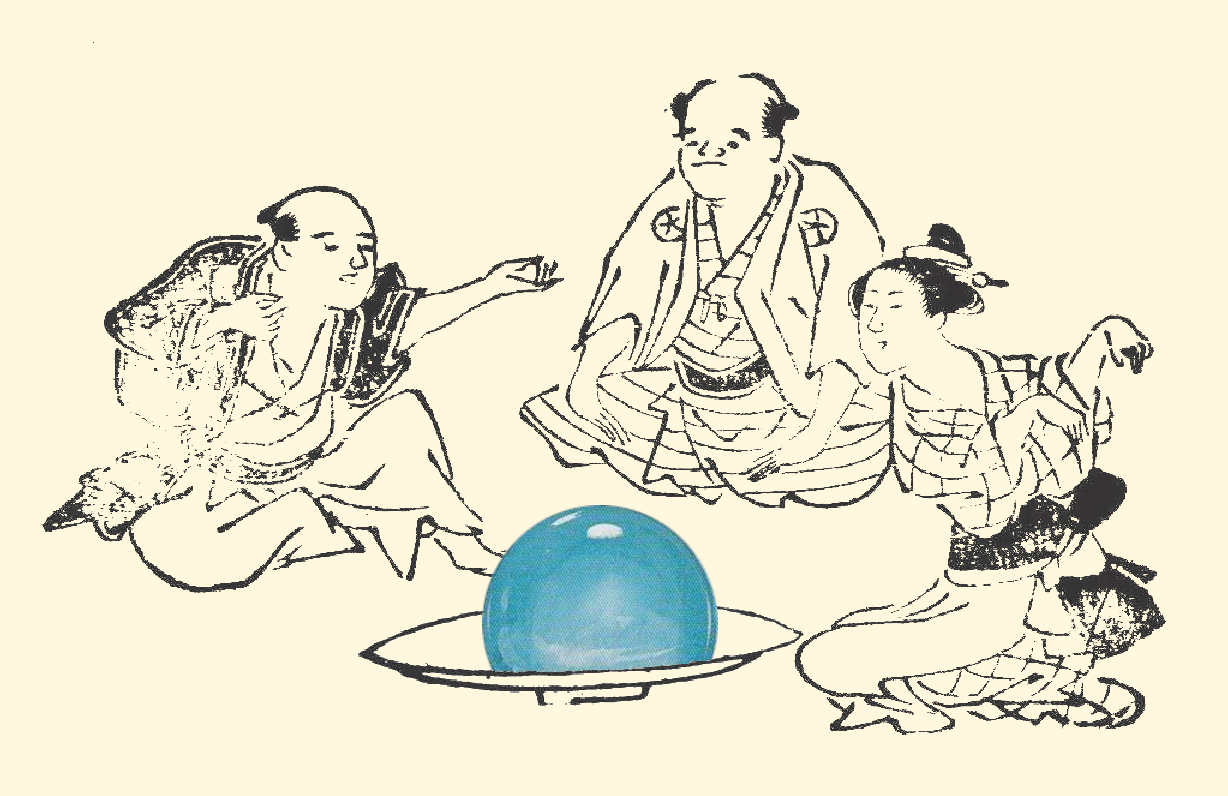
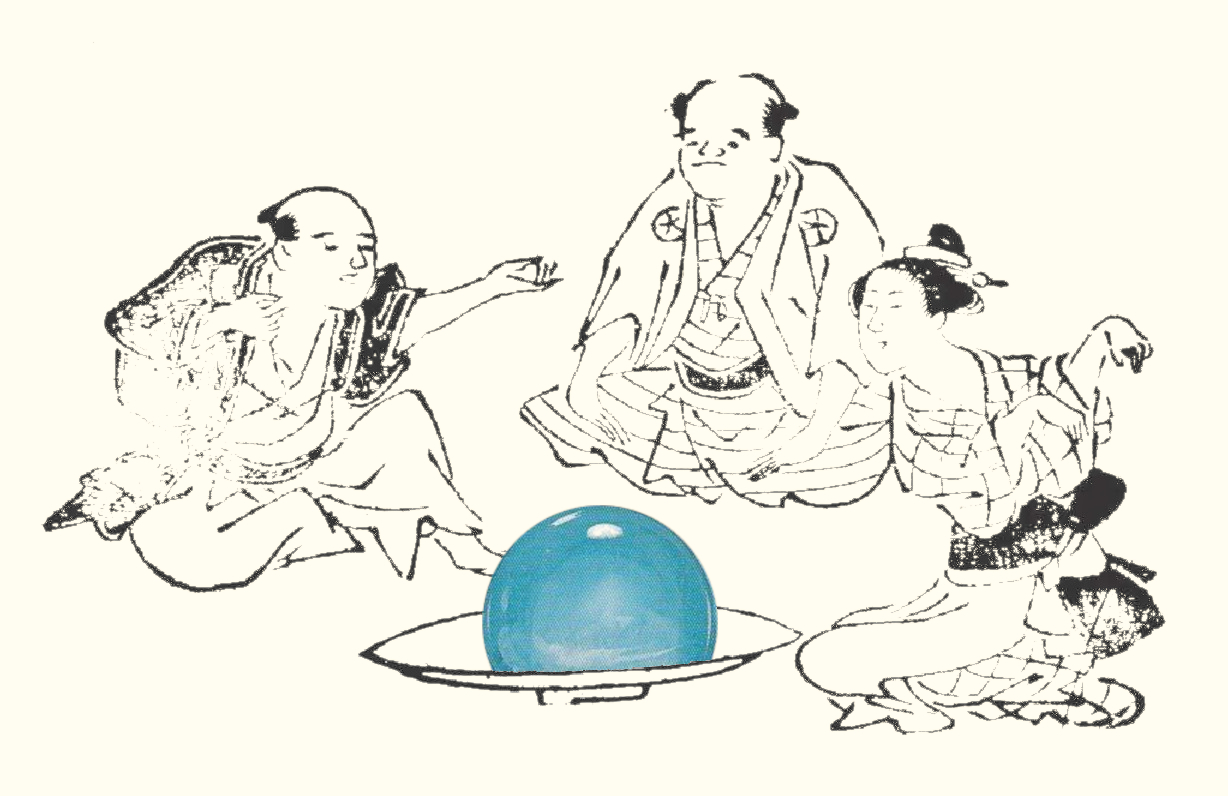
remove too much yellowness from background

diff --git a/style/style.css b/style/style.css
@@ -39,7 +39,7 @@ body {
   width: 800px;
   min-height: 800px;
   background: url(../../assets/img/humans/primates3.jpg) no-repeat right 30% top 40%/770px;
-  background-color: #fff8de;
+  background-color: #fffcf1;
   box-shadow: 2px 3px 15px hsla(0, 0%, 0%, 0.419);
   border-radius: 12px;
   border-radius: 5%;
@@ -74,13 +74,13 @@ body {
   align-items: center;
   flex: 1 0 0;
   font-size: 45px;
-  color: #fff8de;
+  color: #fffcf1;
   -webkit-text-stroke: 2px black;
 }
 #gamediv #middlediv #scores {
   position: relative;
   top: 150px;
-  color: #fff8de;
+  color: #fffcf1;
 }
 #gamediv #botdiv {
   display: flex;
@@ -188,7 +188,7 @@ body {
 #settings, #info {
   font-size: 20px;
   position: absolute;
-  background-color: #fff8de;
+  background-color: #fffcf1;
   box-shadow: 2px 3px 15px hsla(0, 0%, 0%, 0.419);
   border-radius: 12px;
 }
@@ -230,7 +230,7 @@ body {
 }
 
 p.dark, span.dark {
-  color: #fff8de;
+  color: #fffcf1;
 }
 
 body.dark {
@@ -242,7 +242,7 @@ body.dark {
   background-color: #1f1f1f;
 }
 #gamediv.dark #botdiv {
-  color: #fff8de;
+  color: #fffcf1;
 }
 #gamediv.dark #botdiv #rock.dark {
   background-image: url(../../assets/img/cards/slugtrans.png);
@@ -254,16 +254,16 @@ body.dark {
   background-image: url(../../assets/img/cards/snaketrans.png);
 }
 #gamediv.dark #botdiv output.dark {
-  -webkit-text-stroke: 1.5px #fff8de;
+  -webkit-text-stroke: 1.5px #fffcf1;
 }
 #gamediv.dark #botdiv label {
-  color: #fff8de;
+  color: #fffcf1;
 }
 
 #settings.dark, #info.dark {
   background-color: #1f1f1f;
-  color: #fff8de;
+  color: #fffcf1;
 }
 #settings.dark div > span, #info.dark div > span {
-  color: #fff8de;
+  color: #fffcf1;
 }/*# sourceMappingURL=style.css.map */

diff --git a/style/sass/_mixinVar.scss b/style/sass/_mixinVar.scss
@@ -14,5 +14,5 @@
     border-radius: 12px;
 }
 
-$white: #fff8de;
+$white: #fffcf1;
 $dark: #1f1f1f; 
